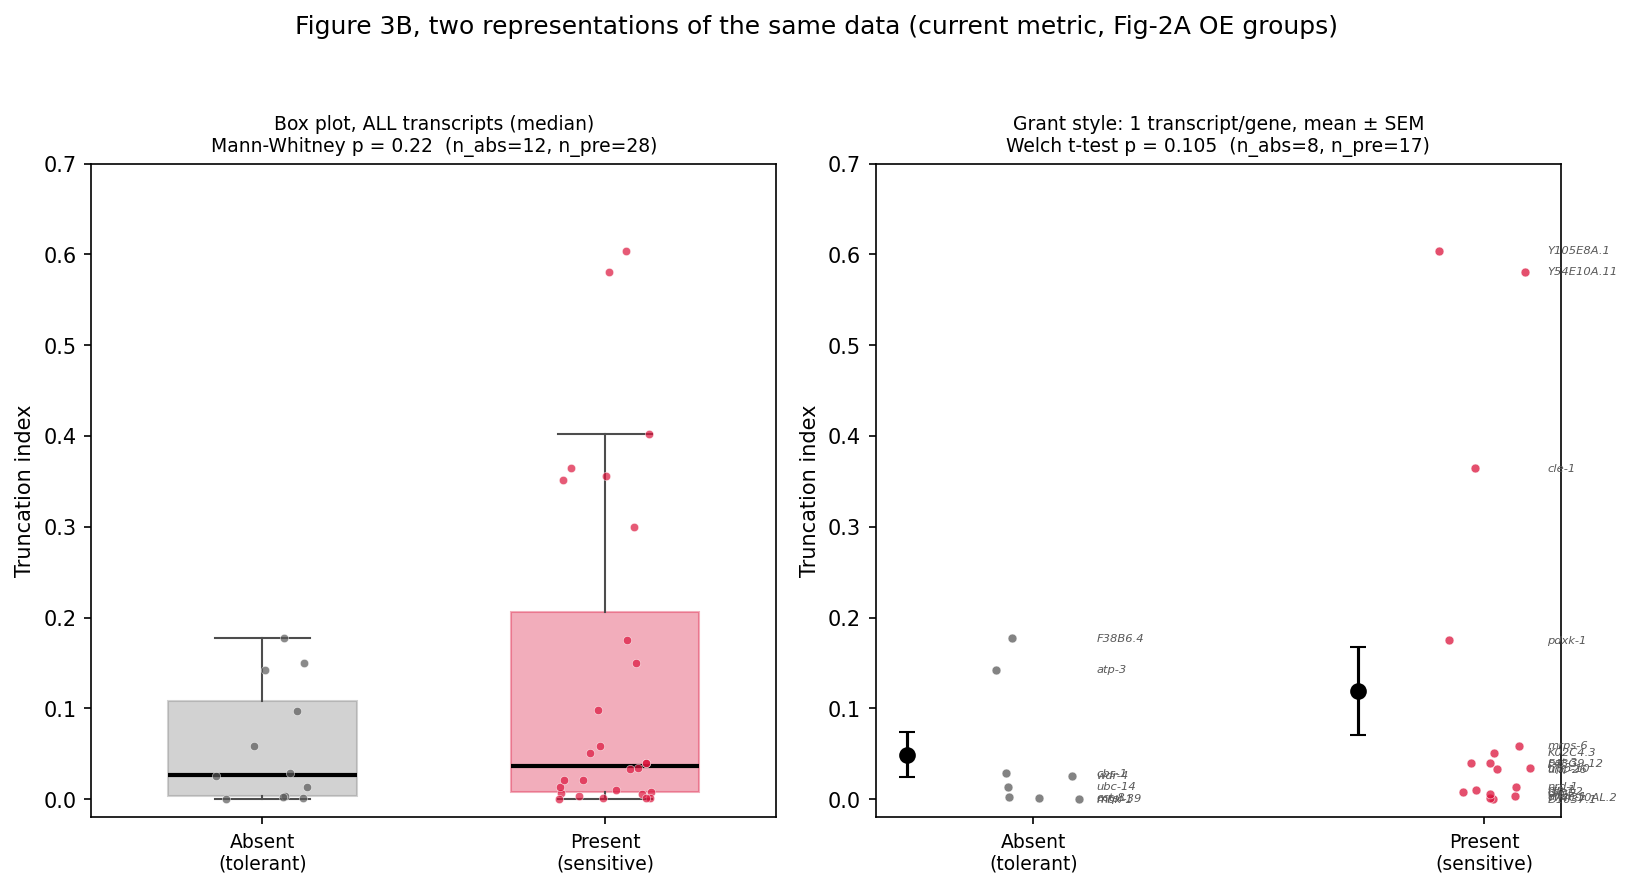
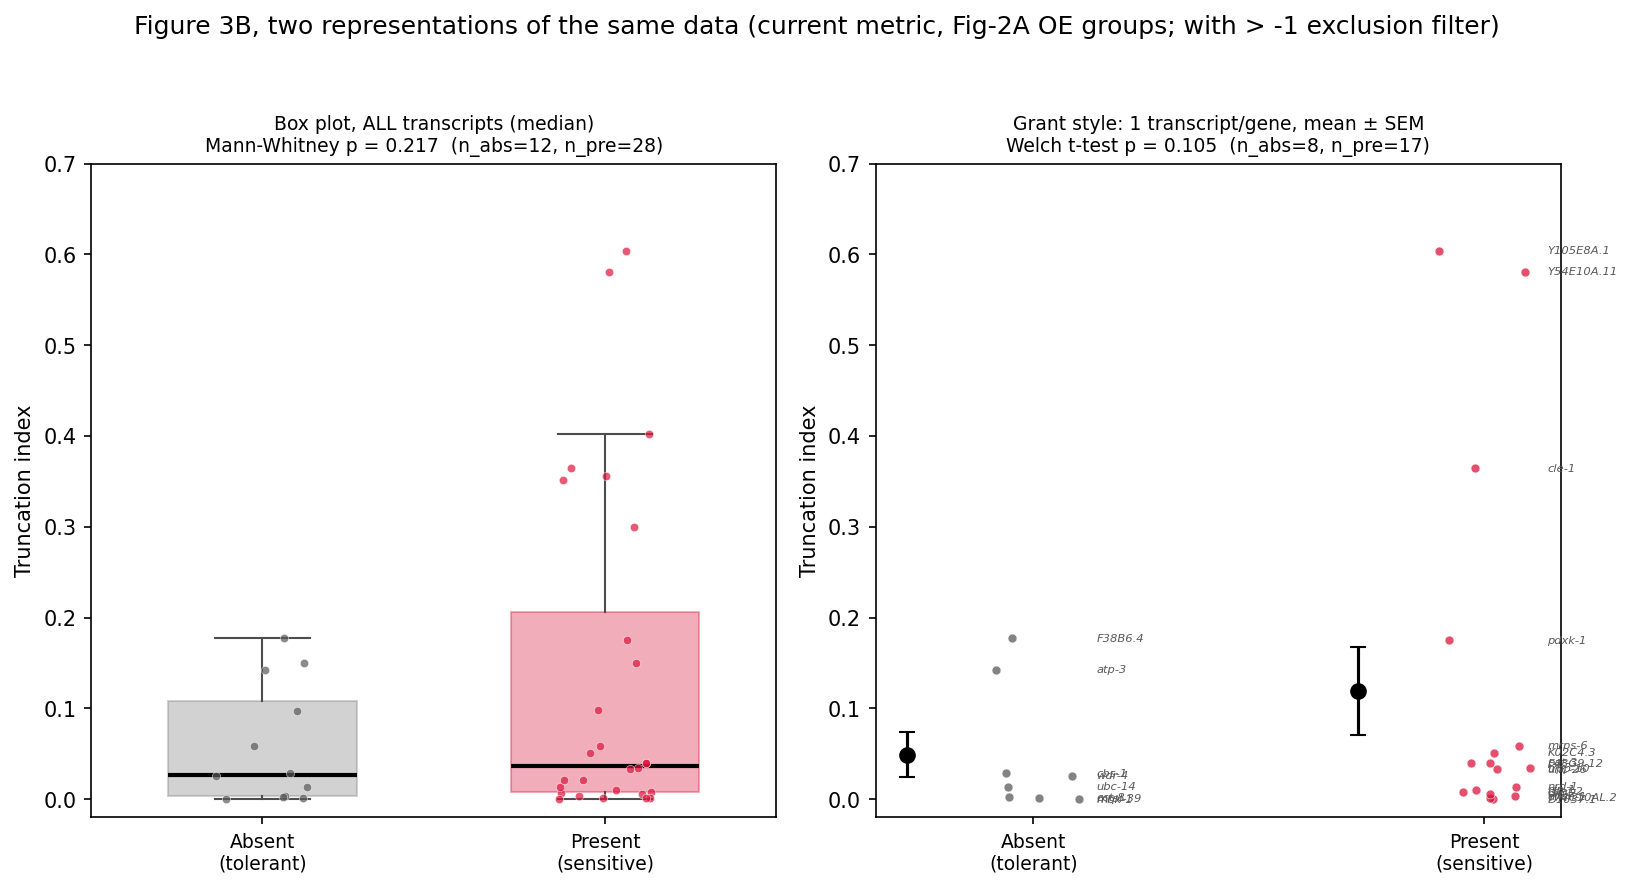
Fig 3B comparison: label filter state + add no-filter version
figure3b_comparison(exclude=...) now names the filter in the suptitle and
filename. exclude=True -> acfrog_figure3b_comparison.png (filtered); False ->
acfrog_figure3b_comparison_nofilter.png. __main__ writes both. No-filter
grant-style t-test p~0.08 vs filtered ~0.11.

Changed region(s): [[0.0938, 0.0, 0.9062, 0.0608], [0.125, 0.152, 0.4062, 0.1824]]

diff --git a/regenerate_acfrog_figures.py b/regenerate_acfrog_figures.py
@@ -308,7 +308,7 @@ def figure3(exclude=True):
           f"all={len(ti_all)}  MWU(present>absent) p={p_mwu:.3f}  -> {out_png}")
 
 
-def figure3b_comparison():
+def figure3b_comparison(exclude=True):
     """
     Side-by-side comparison of two representations of panel 3B, so the box plot
     can be judged apples-to-apples against the grant's own style:
@@ -321,12 +321,21 @@ def figure3b_comparison():
                Welch t-test.
 
     Both use the same current `truncationindex` metric and the same Fig-2A OE
-    groups -- only the aggregation (all isoforms vs one per gene) and the
-    summary/statistic (median/box vs mean±SEM) differ.  Output:
-    acfrog_figure3b_comparison.png
+    groups (itsn-1/adr-2 excluded) -- only the aggregation (all isoforms vs one
+    per gene) and the summary/statistic (median/box vs mean±SEM) differ.
+
+    exclude=True  (default): filtered fits (the `> -1` excluded table)
+                  -> acfrog_figure3b_comparison.png
+    exclude=False: non-excluded fits (`worm_fourparam_table.csv`)
+                  -> acfrog_figure3b_comparison_nofilter.png
     """
     import re
-    table = pd.read_csv(WORM_TABLE).set_index("gene")
+    table = pd.read_csv(WORM_TABLE if exclude else "worm_fourparam_table.csv"
+                        ).set_index("gene")
+    filt_label = ("with > -1 exclusion filter" if exclude
+                  else "WITHOUT the > -1 exclusion filter")
+    out_png = ("acfrog_figure3b_comparison.png" if exclude
+               else "acfrog_figure3b_comparison_nofilter.png")
 
     def ti_of(tid):
         if tid in table.index:
@@ -385,7 +394,7 @@ def figure3b_comparison():
         axL.scatter(jit, data, s=16, color=col, alpha=0.7,
                     edgecolors="white", linewidths=0.3, zorder=3)
     axL.set_title(f"Box plot, ALL transcripts (median)\n"
-                  f"Mann-Whitney p = {p_box:.2f}  "
+                  f"Mann-Whitney p = {p_box:.3f}  "
                   f"(n_abs={len(tL_abs)}, n_pre={len(tL_pre)})", fontsize=9)
     axL.set_xticks([0, 1])
     axL.set_xticklabels(["Absent\n(tolerant)", "Present\n(sensitive)"], fontsize=9)
@@ -418,12 +427,14 @@ def figure3b_comparison():
     axR.set_ylim(-0.02, 0.7)
 
     fig.suptitle("Figure 3B, two representations of the same data "
-                 "(current metric, Fig-2A OE groups)", fontsize=12)
+                 f"(current metric, Fig-2A OE groups; {filt_label})", fontsize=12)
     fig.tight_layout(rect=[0, 0, 1, 0.95])
-    fig.savefig("acfrog_figure3b_comparison.png", dpi=150, bbox_inches="tight")
+    fig.savefig(out_png, dpi=150, bbox_inches="tight")
     plt.close(fig)
-    print(f"Fig 3B comparison: box MWU p={p_box:.3f} | grant-style t-test "
-          f"p={p_t:.3f} (abs mean={vAbs.mean():.3f}, pre mean={vPre.mean():.3f})")
+    print(f"Fig 3B comparison [{'filtered' if exclude else 'NO filter'}]: "
+          f"box MWU p={p_box:.3f} | grant-style t-test "
+          f"p={p_t:.3f} (abs mean={vAbs.mean():.3f}, pre mean={vPre.mean():.3f})"
+          f"  -> {out_png}")
 
 
 # ===========================================================================
@@ -507,6 +518,7 @@ def figure4():
 if __name__ == "__main__":
     figure3(exclude=True)          # normal pipeline (> -1 filter)
     figure3(exclude=False)         # comparison: no exclusion filter
-    figure3b_comparison()          # box plot vs grant-style 3B
+    figure3b_comparison(exclude=True)   # box vs grant-style 3B (filtered)
+    figure3b_comparison(exclude=False)  # box vs grant-style 3B (no filter)
     figure4()
     print("done")

diff --git a/acfrog.md b/acfrog.md
@@ -328,17 +328,26 @@ higher). Regenerate both via `python regenerate_acfrog_figures.py`
 
 #### Figure 3B — box plot vs. the grant's representation
 
-![Figure 3B: two representations](acfrog_figure3b_comparison.png)
+Filtered (`> -1` exclusion — the default view):
+
+![Figure 3B: two representations, filtered](acfrog_figure3b_comparison.png)
+
+No-filter comparison (same panels, non-excluded fits):
+
+![Figure 3B: two representations, no filter](acfrog_figure3b_comparison_nofilter.png)
 
 The grant's 3B is **not** a box plot — it is a per-gene dot plot with a black **mean ± SEM**
-marker, using **one (canonical) transcript per gene**. This panel puts the two
-representations of the *same data / same metric / same Fig-2A groups* side by side:
+marker, using **one (canonical) transcript per gene**. Each figure puts the two
+representations of the *same data / same metric / same Fig-2A groups* side by side; the two
+figures differ only in the `> -1` exclusion filter (each figure's title says which):
 
-- **Left — box plot, all transcripts (median):** Mann-Whitney p ≈ 0.22 (as embedded in
-  Figure 3). Median-based, so the shared spike at TI ≈ 0.03 dominates.
-- **Right — grant style, 1 transcript/gene, mean ± SEM:** Welch t-test p ≈ 0.11.
+- **Left — box plot, all transcripts (median):** Mann-Whitney p ≈ 0.22 filtered / ≈ 0.20
+  no-filter (as embedded in Figure 3). Median-based, so the shared spike at TI ≈ 0.03
+  dominates.
+- **Right — grant style, 1 transcript/gene, mean ± SEM:** Welch t-test p ≈ 0.11 filtered /
+  ≈ 0.08 no-filter.
 
-(Both panels exclude `itsn-1`/`adr-2` per the professor; removing those two elevated
+(All panels exclude `itsn-1`/`adr-2` per the professor; removing those two elevated
 tolerant genes drops the grant-style tolerant mean from ≈ 0.087 to ≈ 0.049 and its t-test
 from p ≈ 0.29 to ≈ 0.11.) Neither reproduces the grant's *p < 0.004*, and the difference
 between the two representations is **not** the truncation-index formula or the `> -1`

diff --git a/CLAUDE.md b/CLAUDE.md
@@ -155,4 +155,4 @@ Both are the interactive scratch space (`from bhuvanfitter import BhuvanFitter, 
 - **Fig 3 OE groups come from Figure 2A, not `genes_of_interest.json`.** The script hard-codes `SENS_GENES` (24 OE-sensitive) / `TOL_GENES` (23 OE-tolerant) worm gene names extracted from Fig 2A's mcOE-"Any" shaded cells (the json lacks the OE-tolerant no-phenotype genes, which are the correct "absent" control for panel D). `build_worm_groups()` resolves those names → fourparam-table transcript IDs (`w{n}_{transcript}`) via the `Supplementary Data 1 trunc 20250702.xlsx` `GeneName`/`transcript`/`wwww` columns (hlh-34, sod-5, H39E23.3 aren't in the dataset and drop out). **`EXCLUDE_GENES = {"itsn-1", "adr-2"}`** (two OE-tolerant genes) are dropped from `SENS_GENES`/`TOL_GENES` at the professor's instruction, so they're absent from every worm panel (3A–D and the 3B comparison), filtered and no-filter alike.
 - **Honesty caveat (in script + md):** with the proper Fig 2A groups, Fig 3D shows the qualitative pattern as a **tail effect** — OE-tolerant genes are capped (max TI ≈ 0.30) while OE-sensitive spread to 0.60 — but the medians are similar so Mann-Whitney is only p ≈ 0.24 (n.s.), weaker than the proposal's p < 0.004 (likely the older *unbounded* TI metric amplified it). Cerebellum (Fig 4): triplication genes have truncation index ≈ 0, and even as a pTriplo≥0.94-vs-dup-tolerant contrast the signal is flat/reversed (consistent with the section-5 ρ ≈ −0.01). Fig 3D uses **probability (per-bin fraction) normalization** to match the original's `p` axis, not density.
 - **`figure3(exclude=...)` toggle.** `figure3(exclude=True)` (default) uses the `> -1` excluded table + floor → `acfrog_figure3_worm.png`; `figure3(exclude=False)` uses the non-excluded `worm_fourparam_table.csv` and includes the −1 floor when re-histogramming → `acfrog_figure3_worm_nofilter.png` (comparison only; the validity filters `fit_success`/`0<TI<1`/`n_obs≥30` still apply). Dropping the exclusion lets more transcripts through and shifts fits left but leaves the qualitative result unchanged. `__main__` writes both.
-- **`figure3b_comparison()`** → `acfrog_figure3b_comparison.png`: side-by-side of panel 3B as (left) a box plot over all transcripts (median, Mann-Whitney p ≈ 0.22) vs (right) the **grant's style** — one canonical transcript per gene, mean ± SEM, gene-name labels, Welch t-test p ≈ 0.11 (both after excluding itsn-1/adr-2; dropping those two elevated tolerant genes moved the grant-style p from ≈ 0.29 → ≈ 0.11). Same metric/data/groups; the grant's stronger *p < 0.004* is **not** reproduced. Diagnosis (also in acfrog.md): the box-vs-grant difference is **transcript selection + mean-vs-median statistic**, NOT the `> -1` filter (no-filter barely moves p) and NOT the truncationindex formula (current metric ≈ the grant's own supplementary `trunc` for most genes: cle-1/dnsn-1/dip-2/Y54E10A.11/Y105E8A.1 all within ~0.05). Even the grant's own `trunc` on these 23/21 gene lists only reaches p ≈ 0.03–0.07, so the published p likely used an expanded gene set (+13 independent-study genes).
+- **`figure3b_comparison(exclude=...)`**: side-by-side of panel 3B as (left) a box plot over all transcripts (median) vs (right) the **grant's style** — one canonical transcript per gene, mean ± SEM, gene-name labels, Welch t-test. `exclude=True` → `acfrog_figure3b_comparison.png` (filtered: box MWU p ≈ 0.22, grant-style p ≈ 0.11); `exclude=False` → `acfrog_figure3b_comparison_nofilter.png` (no-filter: p ≈ 0.20 / ≈ 0.08). Each figure's suptitle states which. Both exclude itsn-1/adr-2 (dropping those two elevated tolerant genes moved the grant-style p from ≈ 0.29 → ≈ 0.11). `__main__` writes both. Same metric/data/groups; the grant's stronger *p < 0.004* is **not** reproduced. Diagnosis (also in acfrog.md): the box-vs-grant difference is **transcript selection + mean-vs-median statistic**, NOT the `> -1` filter (no-filter barely moves p) and NOT the truncationindex formula (current metric ≈ the grant's own supplementary `trunc` for most genes: cle-1/dnsn-1/dip-2/Y54E10A.11/Y105E8A.1 all within ~0.05). Even the grant's own `trunc` on these 23/21 gene lists only reaches p ≈ 0.03–0.07, so the published p likely used an expanded gene set (+13 independent-study genes).